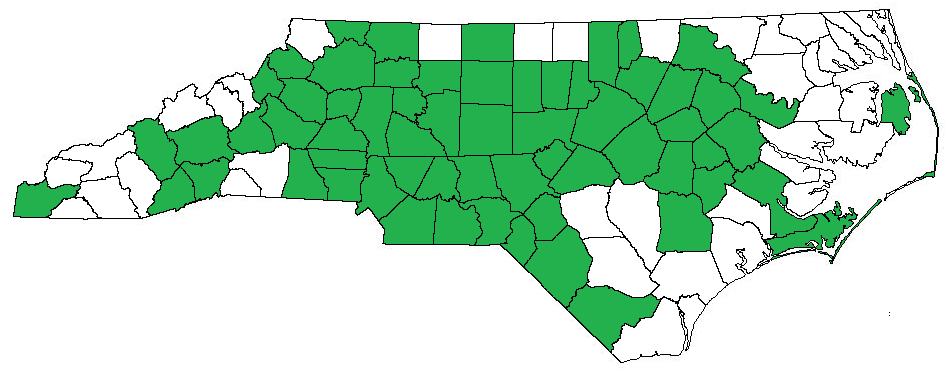
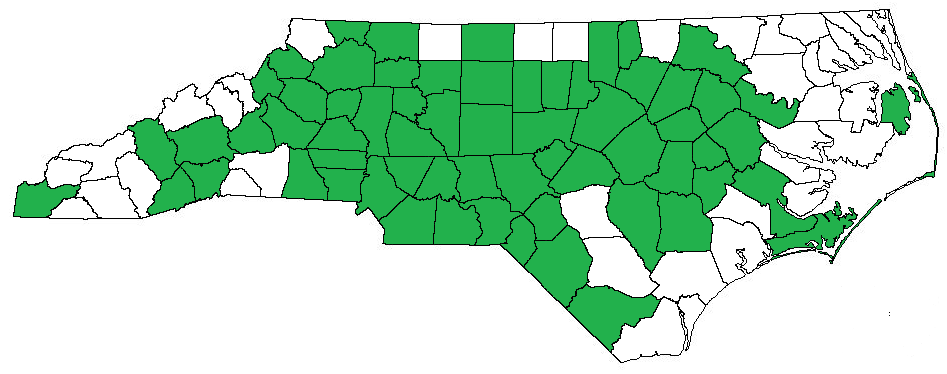
bbq 11/7/22

Changed region(s): [[0.6431, 0.4706, 0.7043, 0.7353]]

diff --git a/bbq/bbq-pics.html b/bbq/bbq-pics.html
@@ -926,6 +926,26 @@
 </button></center>
 
 <br>
+<p><b>Sampson County</b></p>
+<p>Altman's Grocery Barn &amp; Grill - Godwin</p>
+<p><a id="Altmans"></p>
+<center><img id="image177" img-src="https://s3.us-east-1.wasabisys.com/cwclaib-website/NC-State-Page/bbq/Altmans Grocer Barn, Godwin/20221104_171238.jpg" width="800"></img></center>
+<center><button type="button"
+        onclick="show( image177, this )" id="btnID">
+        Show Image
+</button></center>
+<center><img id="image178" img-src="https://s3.us-east-1.wasabisys.com/cwclaib-website/NC-State-Page/bbq/Altmans Grocer Barn, Godwin/20221104_172628.jpg" width="800"></img></center>
+<center><button type="button"
+        onclick="show( image178, this )" id="btnID">
+        Show Image
+</button></center>
+<center><img id="image179" img-src="https://s3.us-east-1.wasabisys.com/cwclaib-website/NC-State-Page/bbq/Altmans Grocer Barn, Godwin/20221104_172632.jpg" width="800"></img></center>
+<center><button type="button"
+        onclick="show( image179, this )" id="btnID">
+        Show Image
+</button></center>
+
+<br>
 <p><b>Scotland County</b></p>
 <p>General McArthur's Restaurant - Laurinburg</p>
 <p><a id="McArthurs"></p>

diff --git a/bbq/index.html b/bbq/index.html
@@ -58,10 +58,10 @@
 <br>
 <center>
 	<h2>Current County Counter</h2>
-	<h3><span style="color:red">63</span> / 100</h3>
-	<h3>84 different in-state BBQ joints</h3>
+	<h3><span style="color:red">64</span> / 100</h3>
+	<h3>85 different in-state BBQ joints</h3>
 	<h3>6 annual BBQ events</h3>
-	<p>(last updated 11/2/2022)</p>
+	<p>(last updated 11/7/2022)</p>
 </center>
 <br>
 
@@ -341,6 +341,11 @@
 	<li>Richard's BBQ - Salisbury - 12/14/2019 - <i><span class="ncbsbbq">NCBS BBQ Trail</span></i>; <i><span class="ncbsbbq">True 'Cue NC</span></i></li>
 	<li>Wink's BBQ (<i><span style="color:red">closed July 2020</span></i>) - Salisbury - 12/14/2019 - <i>former NCBS BBQ Trail stop</i></li>
 	<!-- https://www.wbtv.com/2020/07/30/winks-bbq-owners-see-blessing-closing-popular-restaurant/ -->
+</ul>
+<br>
+<p><b>Sampson County</b></p>
+<ul>
+	<li>Altman's Grocery Barn &amp; Grill - Godwin - 11/4/2022 - <a href="bbq-pics.html#Altmans">pictures</a></li>
 </ul>
 <br>
 <p><b>Scotland County</b></p>
